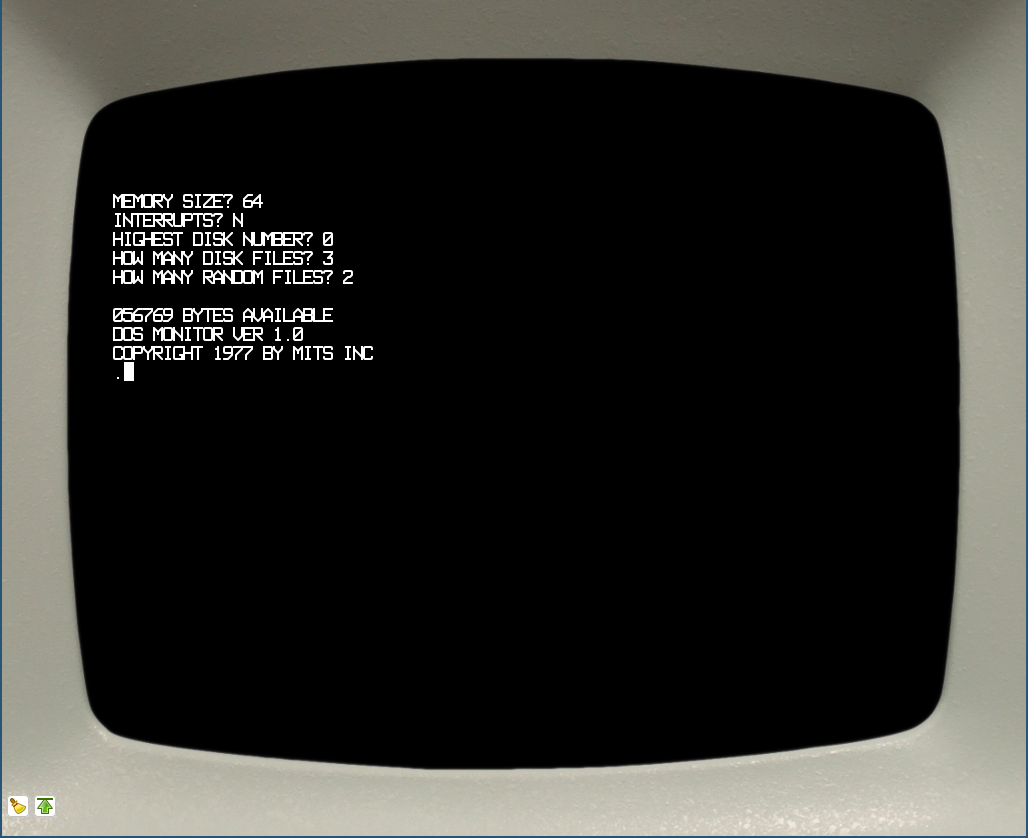
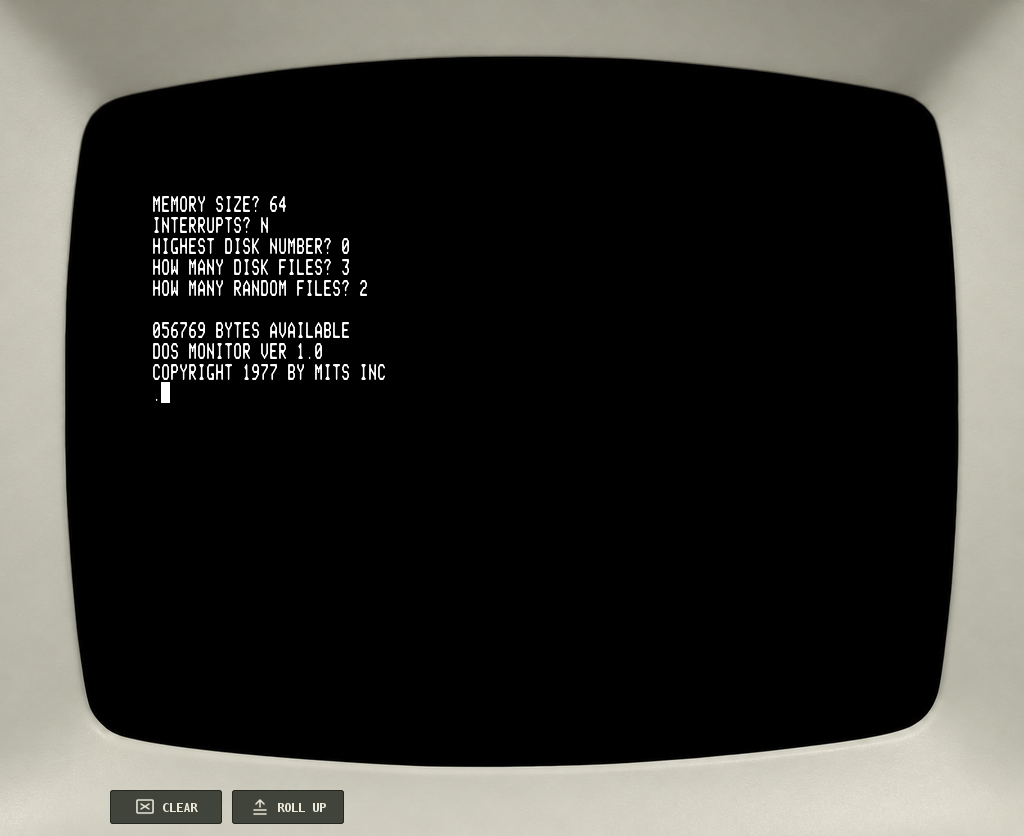
[#1] Refresh ADM-3A documentation and screenshots

Changed region(s): [[0.0, 0.0, 1.0, 1.0], [0.4062, 0.9019, 0.4375, 0.933]]

diff --git a/_documentation/user/_doc/altair8800/adm3a-terminal.md b/_documentation/user/_doc/altair8800/adm3a-terminal.md
@@ -10,9 +10,20 @@ permalink: /altair8800/adm3a-terminal
 
 # Terminal LSI ADM-3A
 
-Emulation of famous terminal from Lear Siegler, Inc. - ADM-3A. It had a nickname 'Dumb Terminal'. Introduced in 1976,
-due to its cheapness and speed capabilities required in that time, it became de facto standard in the industry.
-Often it was used in connection with MITS Altair 8800 computer, so the decision of which terminal to emulate was clear.
+This device emulates the Lear Siegler ADM-3A, introduced in 1976 and marketed as the "Dumb Terminal". Its low price
+made it popular with universities and early microcomputer users, including owners of the MITS Altair 8800.
+It provided a keyboard and text display connected to a host computer over a serial link; the host ran the programs.
+
+The ADM-3A also has a lasting connection with Unix: Bill Joy used it at the University of California, Berkeley,
+when he developed the vi text editor around 1976. In his
+[1984 interview](https://begriffs.com/pdf/unix-review-bill-joy.pdf){:target="_blank"}, Joy recalled that obtaining
+ADM-3A terminals prompted work on screen editing.
+
+Its keyboard explains one of vi's most recognizable features. With no separate arrow keys, the ADM-3A had arrows
+printed on **H (left), J (down), K (up), and L (right)**. The terminal's corresponding control codes were
+`Ctrl+H`, `Ctrl+J`, `Ctrl+K`, and `Ctrl+L`; vi adopted the plain letters `h`, `j`, `k`, and `l` for movement in
+command mode, a convention retained by Vim. The `Esc` key sat where `Tab` sits on modern keyboards, within easy
+reach for returning to command mode. These details of a 1970s keyboard still shape how people edit code today.
 
 ![LSI ADM-3A terminal]({{ site.baseurl }}/assets/altair8800/adm3a.jpg)
 (Image borrowed from [Wikipedia][gui]{:target="_blank"})
@@ -35,11 +46,11 @@ display frequency 60Hz.
 
 GUI can be seen here:
 
-![GUI of adm3a-terminal]({{ site.baseurl }}/assets/altair8800/adm3a-gui.png)
+{% include annotated-screenshot.html image="/assets/altair8800/adm3a-gui.png" alt="ADM-3A terminal with the original font, message box, and numbered Clear and Roll Up controls" width=1024 points="1:9.28:96.53|2:34.96:96.53" %}
 
 {: .list}
-| <span class="circle">1</span> | Clear screen
-| <span class="circle">2</span> | Roll one line down
+| <span class="circle">1</span> | **CLEAR**. Clear screen
+| <span class="circle">2</span> | **ROLL UP**. Scroll the contents up one line
 
 
 ## Keyboard
@@ -47,9 +58,9 @@ GUI can be seen here:
 Terminal could generate 128 ASCII characters (upper-case, lower-case, punctuation and numbers). Besides, it could
 generate special control characters which affected current position of the cursor and were not sent to CPU.
 
-Emulated device allows to generate almost everything what you can get from your host keyboard. It is only the font
-which characters it can display. Original font contains only 255 characters, modern font contains all unicode
-characters.
+The emulator interprets output bytes 128–255 as IBM code page 437 (CP437). The original font includes all of these
+extended characters, including single- and double-line box borders, shading, and blocks. This is an emuStudio
+extension; the original ADM-3A hardware used a 7-bit character set.
 
 The terminal can capture control codes (holding `CTRL` plus some key), and special control
 codes (`ESC + '=' + [Y] + [X]`).
@@ -143,7 +154,7 @@ table.
 
 ## Drawing message boxes
 
-Using some ASCII characters from [code page 437][cp437]{:target="_blank"}, it is possible to draw various kinds of forms, for example:
+Use [code page 437][cp437]{:target="_blank"} character codes to draw boxes, for example:
 
 ```
 message:
@@ -153,12 +164,12 @@ db 200, 205, 205, 205, 205, 205, 205, 205, 205, 205, 205, 205, 205, 188
 db 0
 ```
 
-shown as:
+The example displays:
 
 ![Hello in a message box]({{ site.baseurl }}/assets/altair8800/hello.png)
 
-This is supported only by the "original" font, even though these symbols were not really present in original
-terminal.
+Box borders join across character cells in the original font. When using the 88-SIO serial interface, keep
+`clearOutputBit8 = false` so it passes extended character codes to the terminal.
 
 ## Terminal Settings
 
@@ -168,7 +179,7 @@ close and reopen the computer.
 
 The "settings" window is shown in the following image:
 
-![Settings window of ADM-3A terminal]({{ site.baseurl }}/assets/altair8800/adm3a-settings.png)
+{% include annotated-screenshot.html image="/assets/altair8800/adm3a-settings.png" alt="ADM-3A terminal settings with numbered input and output files, input delay, font, half duplex, always on top, and Save controls" width=444 points="1:69.82:15.57|2:69.82:23.35|3:52.93:31.44|4:97.07:61.38|5:37.84:69.16|6:43.92:76.65|7:72.97:92.22" %}
 
 {: .list}
 | <span class="circle">1</span> | File name used for reading input (when redirected - in "no GUI" mode)
